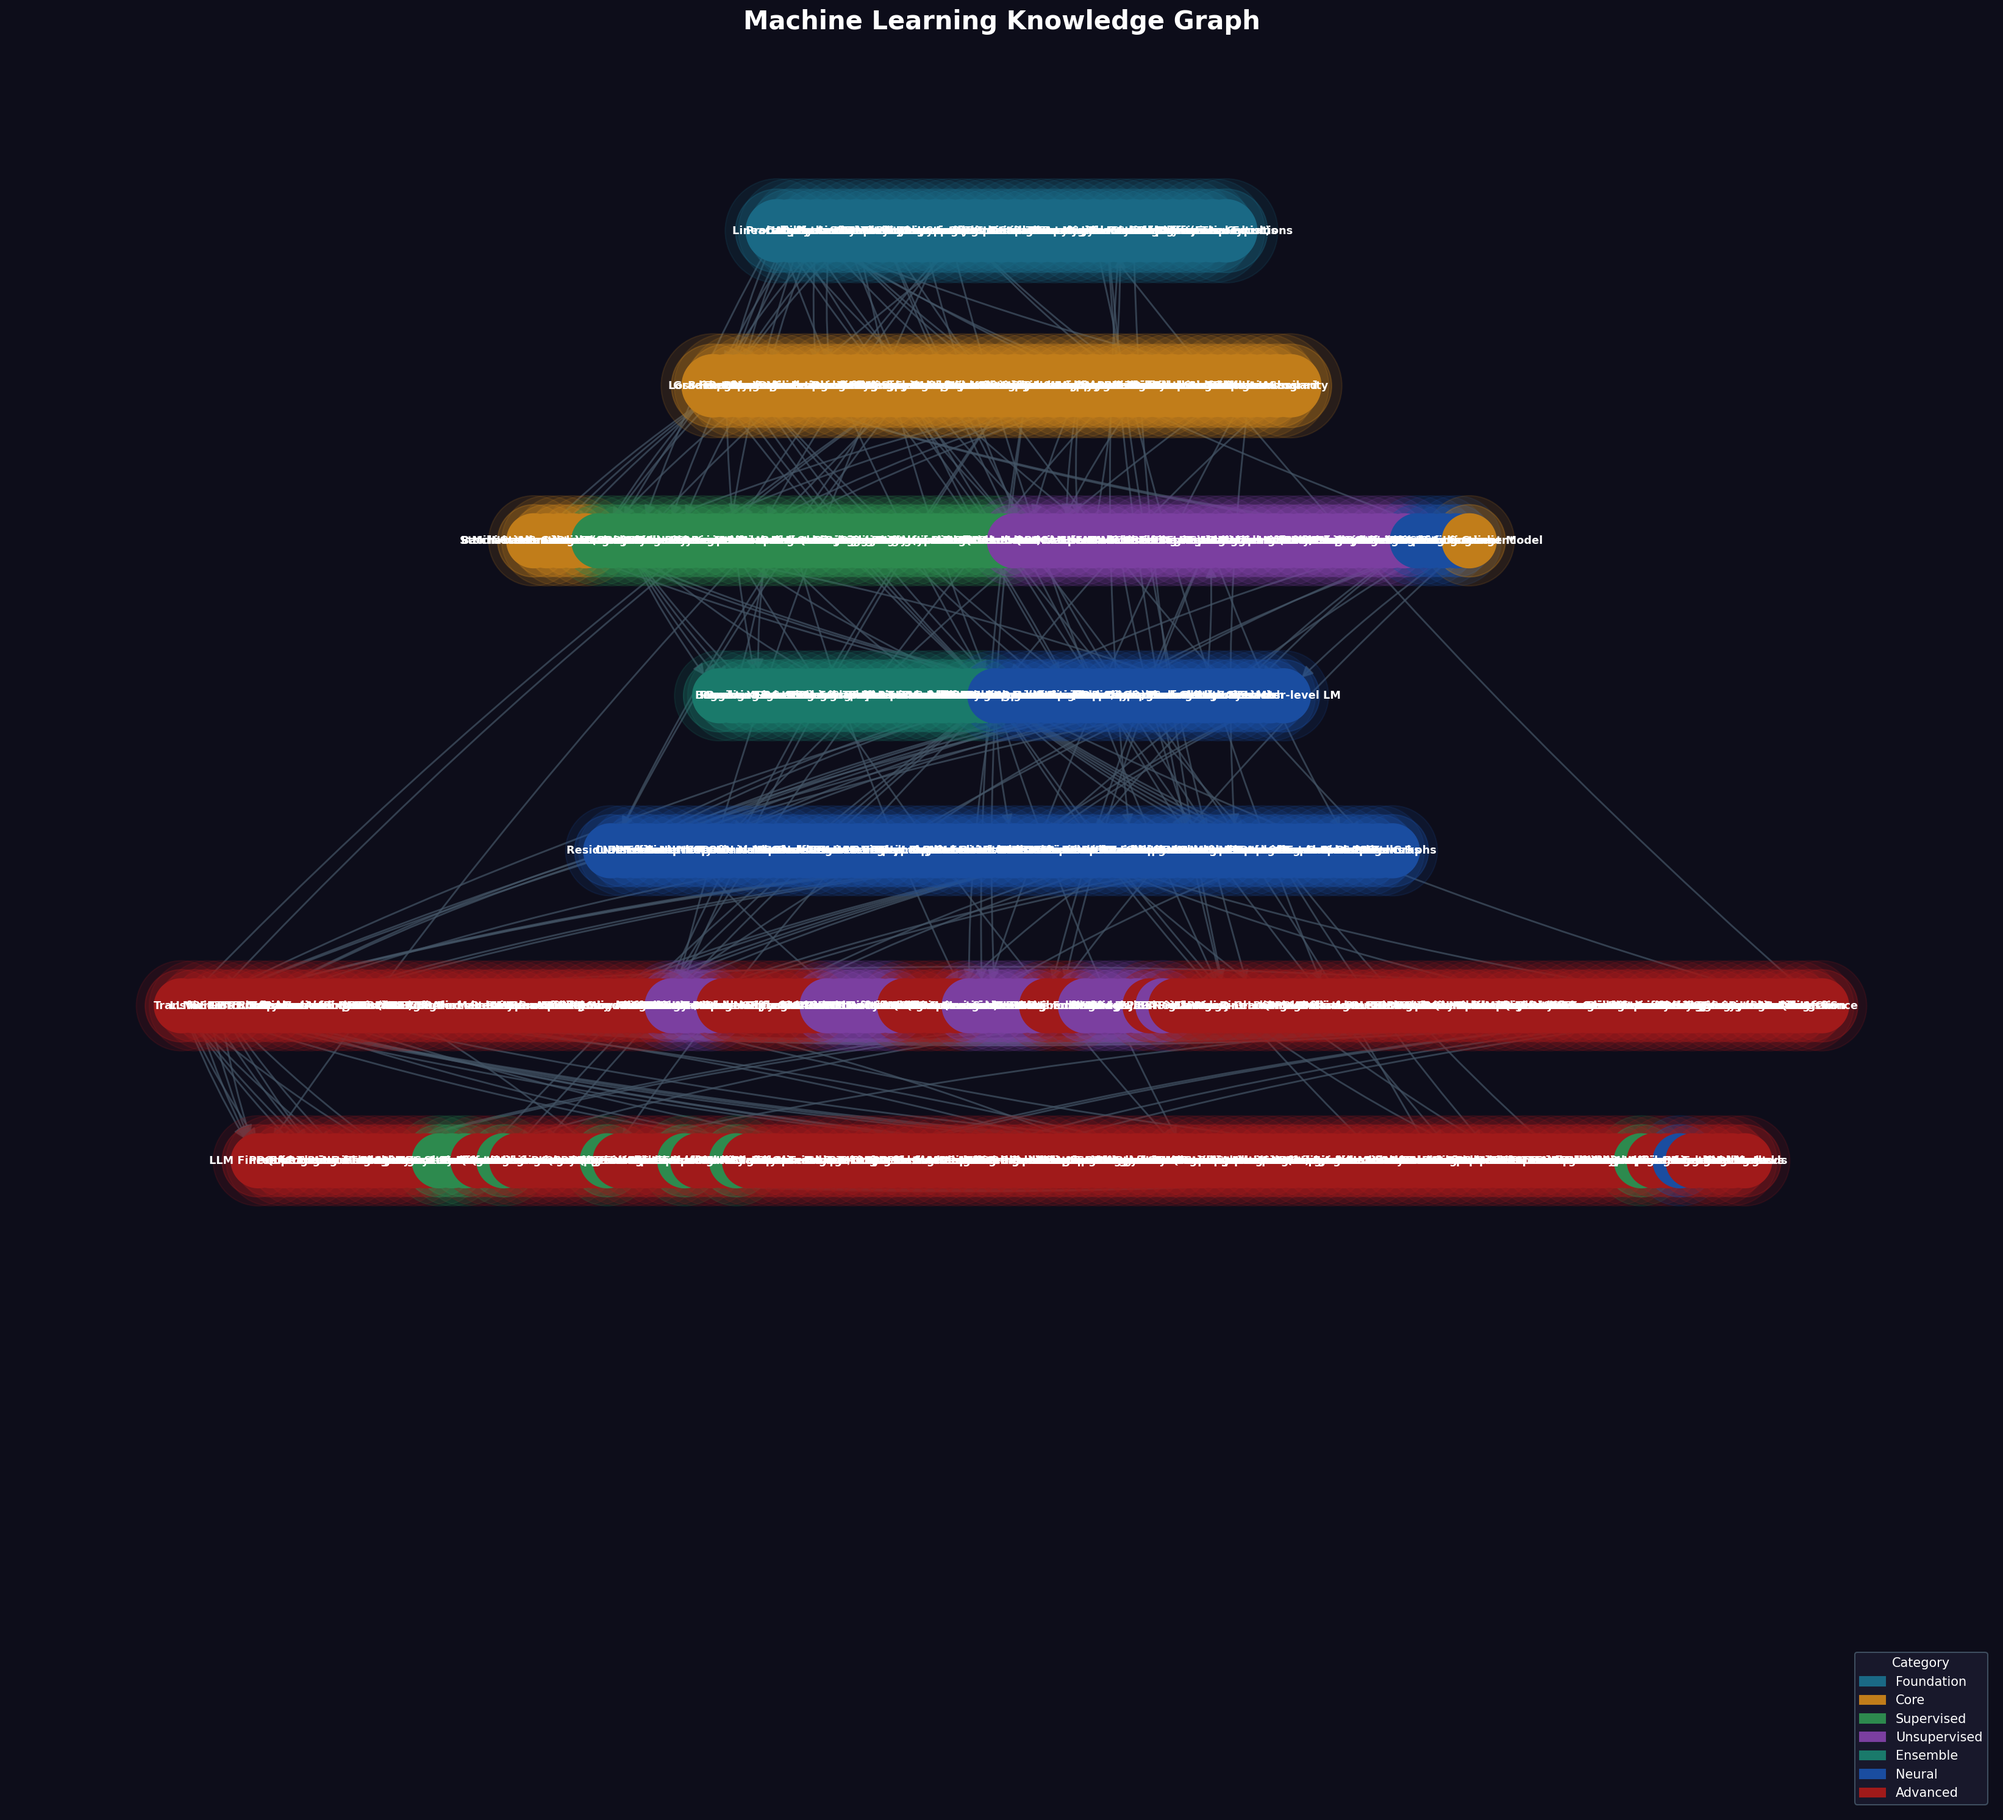
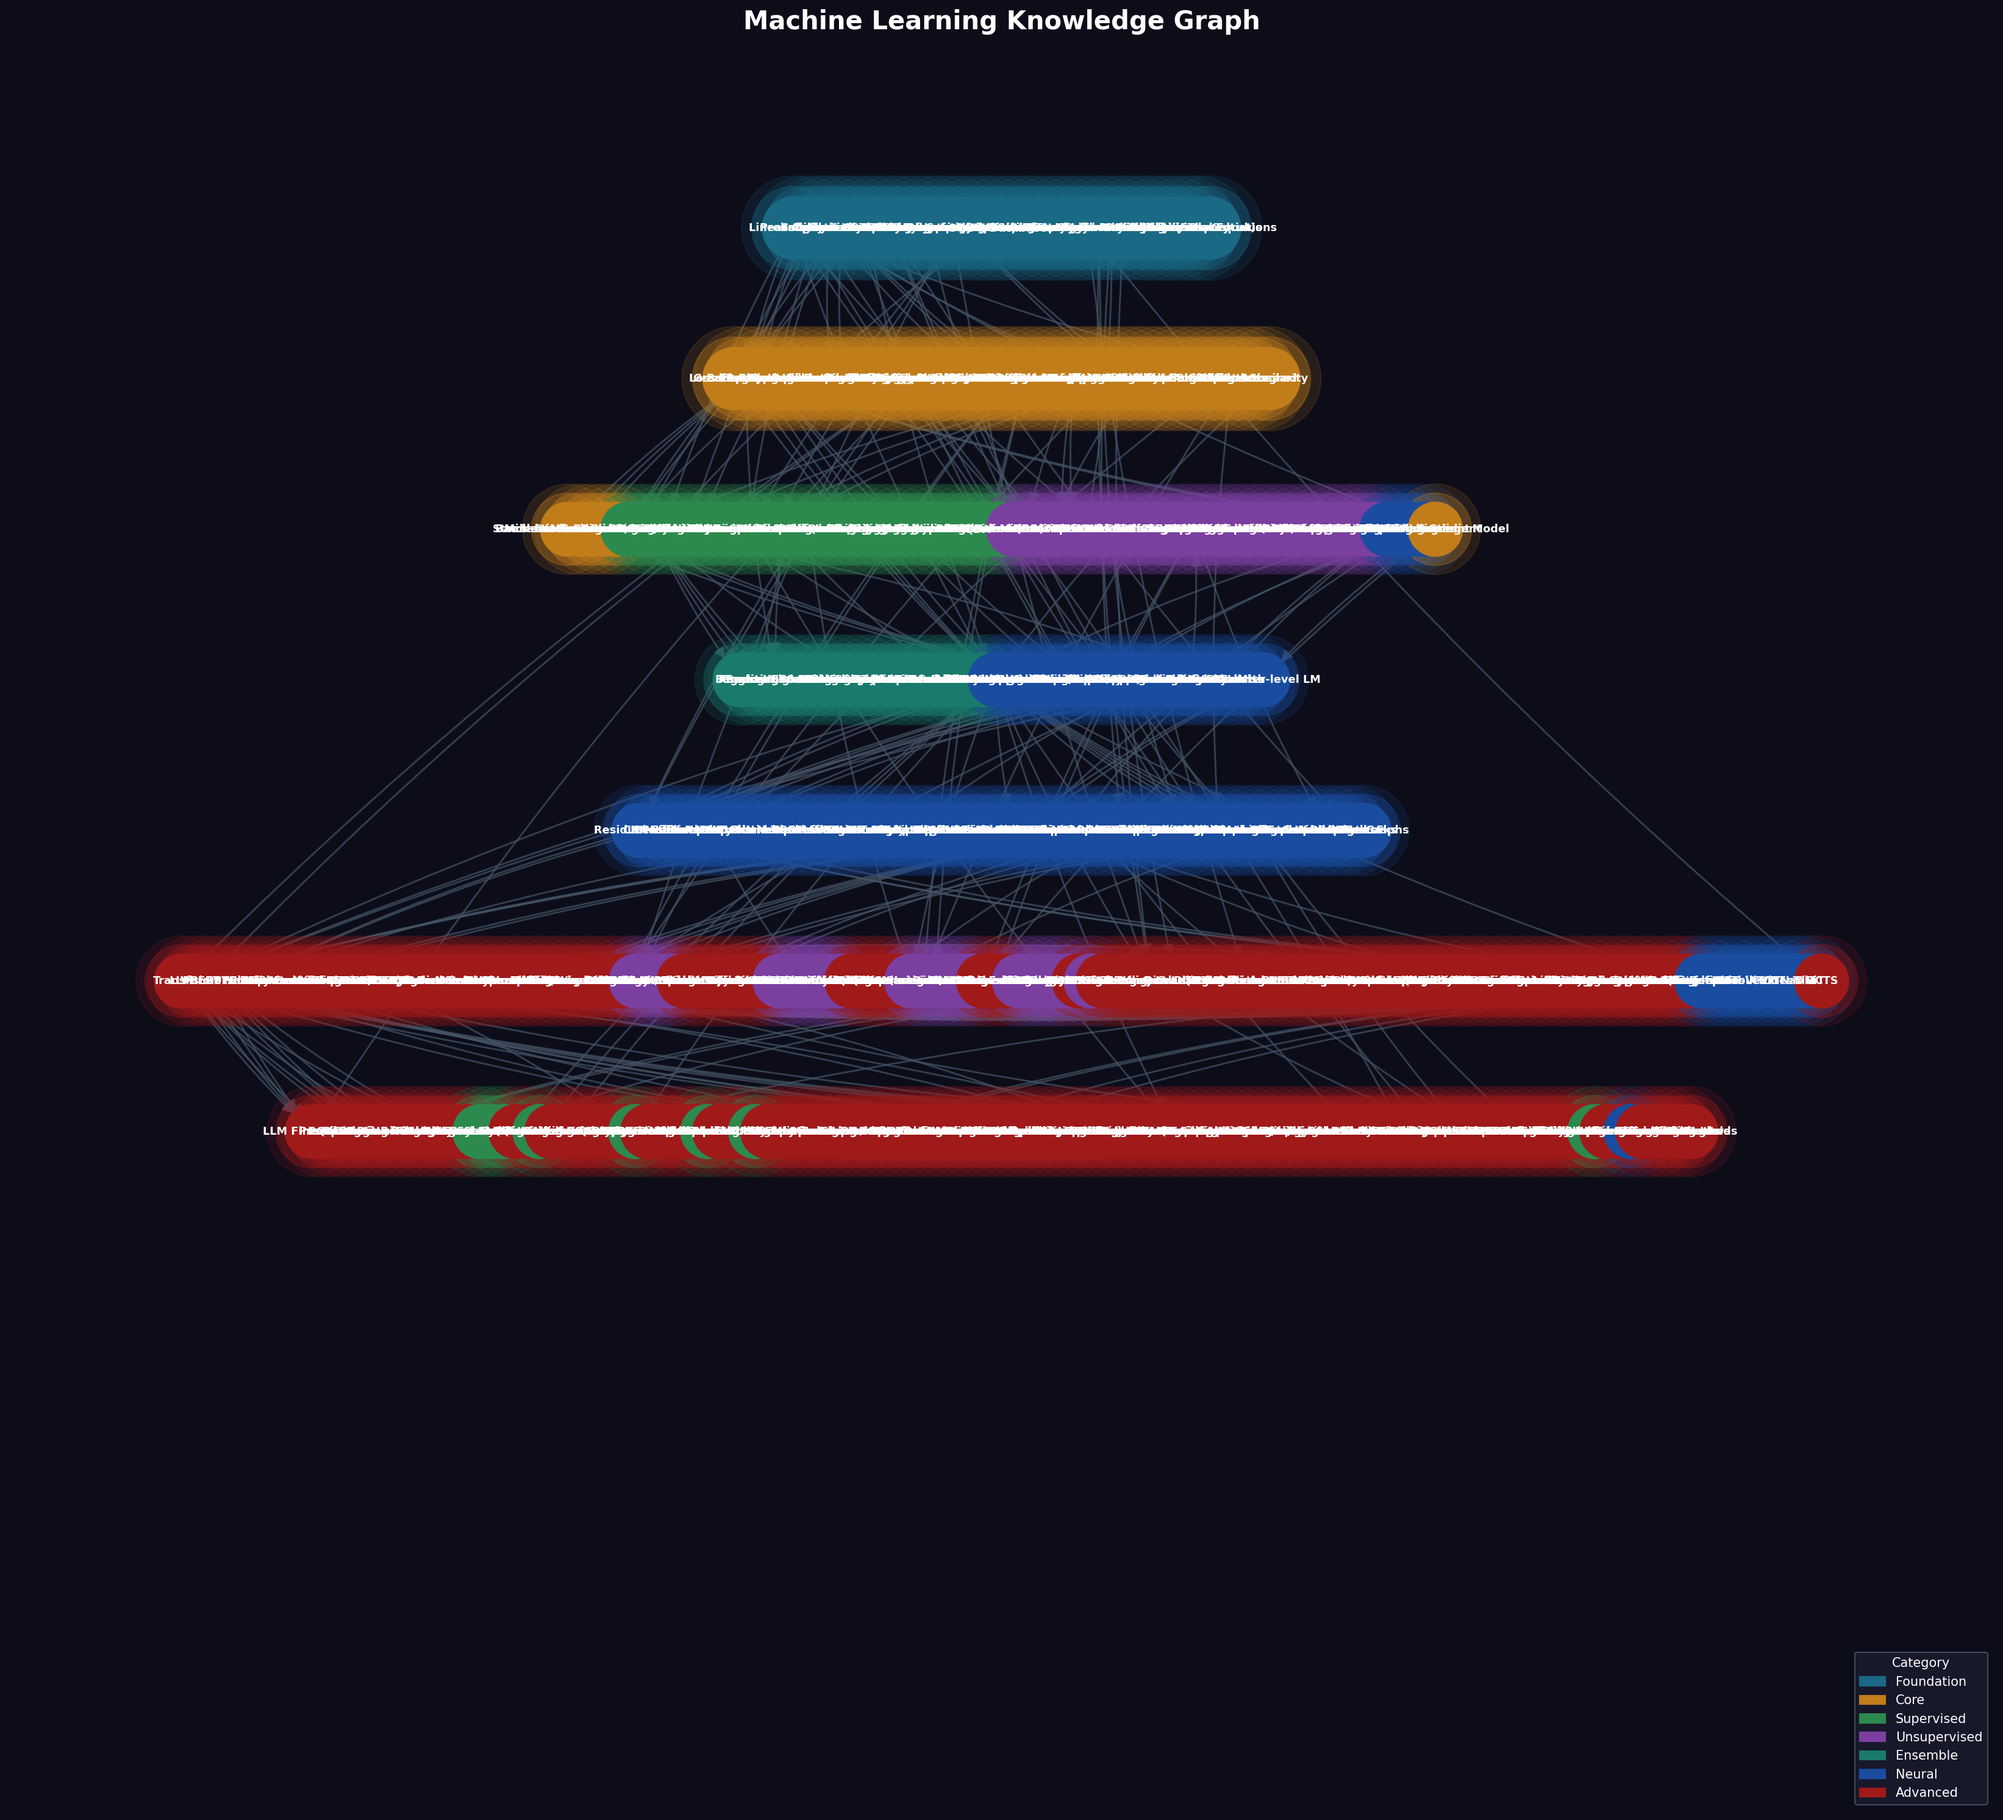
Add 10 ViT variant nodes from lucidrains/vit-pytorch + GitHub filter
New nodes (level 5, neural): SimpleViT, DeepViT, CaiT, CrossViT,
MobileViT, CvT, CCT, NesT, NaViT, ViViT — all with arXiv links
and github pointing to lucidrains/vit-pytorch.

Vision Transformers github link updated to lucidrains/vit-pytorch.

New filter toggle: "⌥ Has GitHub repo" — shows only nodes with
GitHub repository links.

Total: 512 nodes, 635 edges.

Changed region(s): [[0.0621, 0.0935, 0.9315, 0.6854]]

diff --git a/static/index.html b/static/index.html
@@ -237,6 +237,10 @@
       <span class="toggle-label">📓 Has Jupyter notebook</span>
       <label class="toggle-switch"><input type="checkbox" id="filterNotebook"><span class="toggle-slider"></span></label>
     </div>
+    <div class="toggle-row">
+      <span class="toggle-label">⌥ Has GitHub repo</span>
+      <label class="toggle-switch"><input type="checkbox" id="filterGithub"><span class="toggle-slider"></span></label>
+    </div>
 
     <div class="section-title" style="margin-top:14px">Connection Filter</div>
     <div class="toggle-row">
@@ -374,7 +378,7 @@ const LEVEL_LABELS = ["Foundations","Core Concepts","Classical ML","Intermediate
 // ── State ────────────────────────────────────────────────────────────────
 const state = {
   labels: true, links: true, arrows: true, particles: true, glow: false,
-  linkSameCat: true, linkCrossCat: true, linkUp: true, linkSame: true, linkIncoming: true, linkOutgoing: true, youtubeOnly: false, notebookOnly: false,
+  linkSameCat: true, linkCrossCat: true, linkUp: true, linkSame: true, linkIncoming: true, linkOutgoing: true, youtubeOnly: false, notebookOnly: false, githubOnly: false,
   hiddenCats: new Set(), hiddenLevels: new Set(),
   highlighted: null, highlightNodes: new Set(), highlightLinks: new Set(),
 };
@@ -402,6 +406,7 @@ fetch('graph.json').then(r => r.json()).then(data => {
       if (state.hiddenCats.has(n.category) || state.hiddenLevels.has(n.level)) return false;
       if (state.youtubeOnly && !(PAPER_LINKS[n.label] && PAPER_LINKS[n.label].youtube)) return false;
       if (state.notebookOnly && !NOTEBOOK_LINKS[n.label]) return false;
+      if (state.githubOnly && !(PAPER_LINKS[n.label] && PAPER_LINKS[n.label].github)) return false;
       if (currentLayout === 'time') {
         const yr = NODE_YEARS[n.label] ?? NODE_YEARS[n.id] ?? 2000;
         if (yr < tlStartYear || yr > tlEndYear) return false;
@@ -734,7 +739,17 @@ fetch('graph.json').then(r => r.json()).then(data => {
     'BERT': { arxiv: '1810.04805', github: 'google-research/bert', youtube: '90mGPxR2GgY'},
     'GPT':                          { arxiv: '2005.14165', github: 'openai/gpt-2', youtube: 'kCc8FmEb1nY' },
     'T5':                           { arxiv: '1910.10683', github: 'google-research/text-to-text-transfer-transformer' },
-    'Vision Transformers': { arxiv: '2010.11929', github: 'google-research/vision_transformer', youtube: 'TrdevFK_am4'},
+    'Vision Transformers': { arxiv: '2010.11929', github: 'lucidrains/vit-pytorch', youtube: 'TrdevFK_am4'},
+    'SimpleViT':                    { arxiv: '2205.01580', github: 'lucidrains/vit-pytorch' },
+    'DeepViT':                      { arxiv: '2103.11886', github: 'lucidrains/vit-pytorch' },
+    'CaiT':                         { arxiv: '2103.17239', github: 'lucidrains/vit-pytorch' },
+    'CrossViT':                     { arxiv: '2103.14899', github: 'lucidrains/vit-pytorch' },
+    'MobileViT':                    { arxiv: '2110.02178', github: 'lucidrains/vit-pytorch' },
+    'CvT':                          { arxiv: '2103.15808', github: 'lucidrains/vit-pytorch' },
+    'CCT':                          { arxiv: '2104.05704', github: 'lucidrains/vit-pytorch' },
+    'NesT':                         { arxiv: '2105.12723', github: 'lucidrains/vit-pytorch' },
+    'NaViT':                        { arxiv: '2307.06304', github: 'lucidrains/vit-pytorch' },
+    'ViViT':                        { arxiv: '2103.15691', github: 'lucidrains/vit-pytorch' },
     'CLIP':                         { arxiv: '2103.00020', github: 'openai/CLIP' },
     'Flash Attention':              { arxiv: '2205.14135', github: 'Dao-AILab/flash-attention' },
     'FlashAttention-2':             { arxiv: '2307.08691', github: 'Dao-AILab/flash-attention' },
@@ -1191,7 +1206,10 @@ fetch('graph.json').then(r => r.json()).then(data => {
     'V-JEPA':'V-JEPA_2', 'VAE':'Variational_autoencoder',
     'VGG':'vggnet', 'VICReg':'VICReg',
     'VQ-VAE':'Variational_autoencoder', 'VQGAN':'VQGAN',
-    'Vanishing Gradient':'Vanishing_gradient_problem', 'Vision Transformers':'Self-Supervised_Vision_Transformers_Are_Scalable_Generative_Models_for_Domain_Generalization',
+    'Vanishing Gradient':'Vanishing_gradient_problem', 'Vision Transformers':'Vision_transformer',
+    'SimpleViT':'Vision_transformer', 'DeepViT':'Vision_transformer', 'CaiT':'Vision_transformer',
+    'CrossViT':'Vision_transformer', 'MobileViT':'Vision_transformer', 'CvT':'Vision_transformer',
+    'CCT':'Vision_transformer', 'NesT':'Vision_transformer', 'NaViT':'Vision_transformer', 'ViViT':'Vision_transformer',
     'Voting Classifier':'Linear_classifier', 'Watermarking AI':'Digital_watermarking',
     'WaveNet':'WaveNet', 'Weight Decay':'L2_regularization',
     'Weight Initialization':'weight_initialization', 'Word Embeddings':'Locality-Sensitive_Hashing_for_Word_Embeddings',
@@ -1308,6 +1326,7 @@ fetch('graph.json').then(r => r.json()).then(data => {
     linkOutgoing:  v => { state.linkOutgoing = v; refreshGraph(); },
     filterYouTube: v => { state.youtubeOnly = v; refreshGraph(); },
     filterNotebook: v => { state.notebookOnly = v; refreshGraph(); },
+    filterGithub: v => { state.githubOnly = v; refreshGraph(); },
   };
   Object.entries(toggles).forEach(([id, fn]) => {
     const el = document.getElementById(id);
@@ -1393,12 +1412,12 @@ fetch('graph.json').then(r => r.json()).then(data => {
       const el = document.getElementById(id);
       if (el) { el.checked=true; }
     });
-    ['filterYouTube', 'filterNotebook'].forEach(id => {
+    ['filterYouTube', 'filterNotebook', 'filterGithub'].forEach(id => {
       const el = document.getElementById(id);
       if (el) el.checked = false;
     });
     Object.assign(state, {labels:true,links:true,arrows:true,particles:true,glow:true,
-      linkSameCat:true,linkCrossCat:true,linkUp:true,linkSame:true,linkIncoming:true,linkOutgoing:true,youtubeOnly:false,notebookOnly:false});
+      linkSameCat:true,linkCrossCat:true,linkUp:true,linkSame:true,linkIncoming:true,linkOutgoing:true,youtubeOnly:false,notebookOnly:false,githubOnly:false});
     refreshGraph();
     Graph.zoomToFit(400, 80);
   };
@@ -1722,6 +1741,9 @@ fetch('graph.json').then(r => r.json()).then(data => {
     'LLM': 2020,
     'Transformers': 2017, 'BERT': 2018, 'GPT': 2018, 'T5': 2020,
     'Vision Transformers': 2021, 'CLIP': 2021, 'BPE Tokenization': 2016,
+    'SimpleViT': 2022, 'DeepViT': 2021, 'CaiT': 2021, 'CrossViT': 2021,
+    'MobileViT': 2021, 'CvT': 2021, 'CCT': 2021, 'NesT': 2021,
+    'NaViT': 2023, 'ViViT': 2021,
     'Flash Attention': 2022, 'Rotary Embeddings': 2021,
     'Sparse Attention': 2019, 'Feed-Forward Networks': 1989,
     'Mixture of Experts (MoE)': 2017, 'RoBERTa': 2019, 'XLNet': 2019,

diff --git a/src/graph_data.py b/src/graph_data.py
@@ -525,6 +525,18 @@ NODES = {
     "Character-level LM":          (3, "neural"),
     "Bigram Language Model":       (2, "core"),
 
+    # ViT variants (lucidrains/vit-pytorch)
+    "SimpleViT":                   (5, "neural"),
+    "DeepViT":                     (5, "neural"),
+    "CaiT":                        (5, "neural"),
+    "CrossViT":                    (5, "neural"),
+    "MobileViT":                   (5, "neural"),
+    "CvT":                         (5, "neural"),
+    "CCT":                         (5, "neural"),
+    "NesT":                        (5, "neural"),
+    "NaViT":                       (5, "neural"),
+    "ViViT":                       (5, "neural"),
+
     "Generalist Agents":           (6, "advanced"),
     "Embodied AI":                 (6, "advanced"),
     "Robotics Learning":           (6, "advanced"),
@@ -778,6 +790,13 @@ EDGES = [
     ("Vision Transformers", "Multimodal Models"), ("Vision Transformers", "CLIP"),
     ("Vision Transformers", "BEiT"), ("Vision Transformers", "DINOv2"),
     ("Swin Transformer", "Vision Transformers"),
+    ("Vision Transformers", "SimpleViT"), ("Vision Transformers", "DeepViT"),
+    ("Vision Transformers", "CaiT"), ("Vision Transformers", "CrossViT"),
+    ("Vision Transformers", "NaViT"), ("Vision Transformers", "NesT"),
+    ("Vision Transformers", "ViViT"),
+    ("CNNs", "CvT"), ("Vision Transformers", "CvT"),
+    ("CNNs", "CCT"), ("Vision Transformers", "CCT"),
+    ("MobileNet", "MobileViT"), ("Vision Transformers", "MobileViT"),
     ("Flash Attention", "FlashAttention-2"),
     ("Mamba", "RetNet"), ("Mamba", "RWKV"), ("Mamba", "Hyena"),
     ("State Space Models", "Mamba"), ("State Space Models", "RetNet"),
